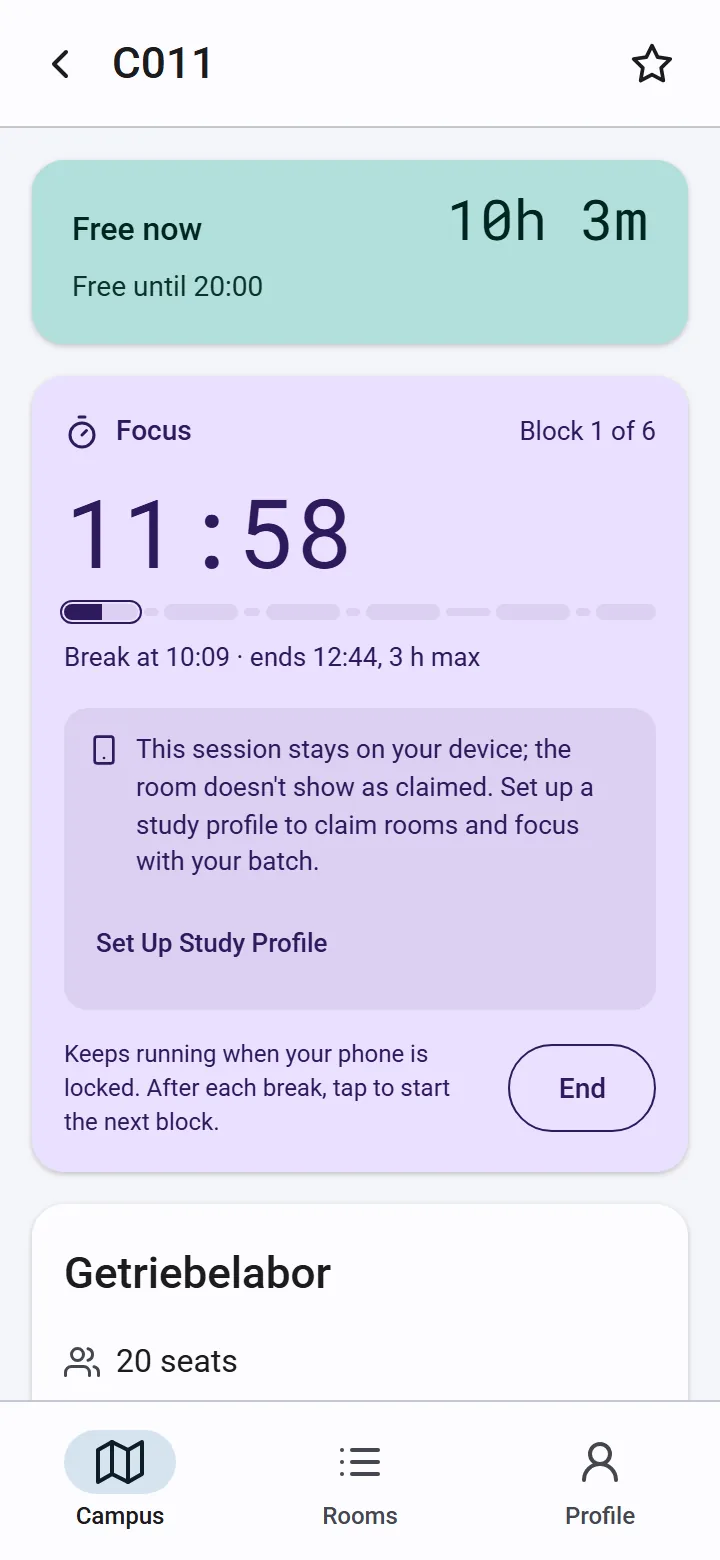
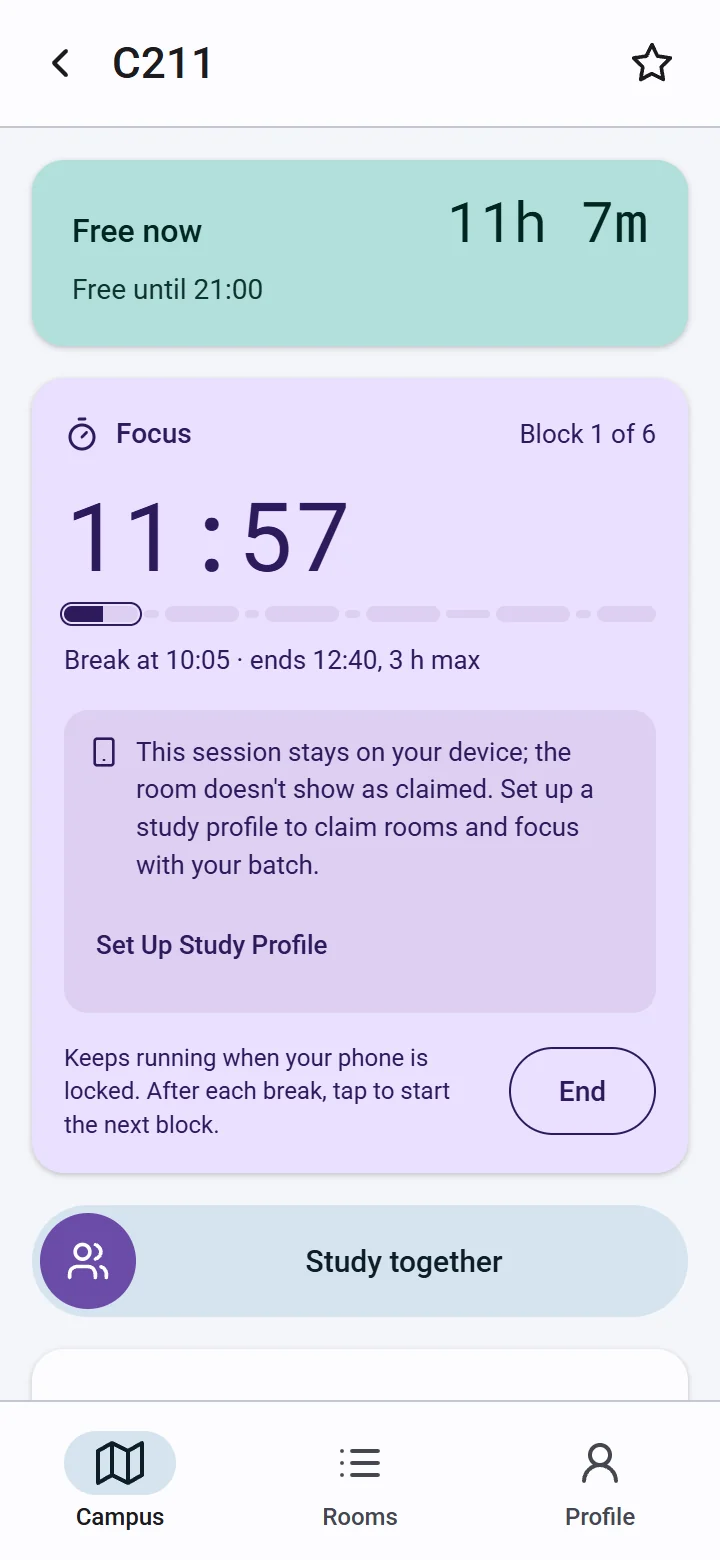
docs(website): replace outdated app screenshots with current ones
- Room list, focus, break and profile phones plus the desktop map,
  light and dark, captured from the current app on a Monday morning
  with live THabella data
- The focus screens now show C211 with Study together below, the
  profile the redesigned history card, and the map the new legend
- Alt texts follow the new numbers and room

diff --git a/website/index.html b/website/index.html
@@ -313,7 +313,7 @@
       </div>
       <div class="steps">
         <div class="step">
-          <div class="phone"><picture><source srcset="assets/screen-rooms-dark.webp" media="(prefers-color-scheme: dark)"><img src="assets/screen-rooms-light.webp" alt="The room list on a phone: 31 rooms free right now, B004 free for 10 hours at the top, then B101, C116 and C011" loading="lazy" width="720" height="1560"></picture></div>
+          <div class="phone"><picture><source srcset="assets/screen-rooms-dark.webp" media="(prefers-color-scheme: dark)"><img src="assets/screen-rooms-light.webp" alt="The room list on a phone: 108 rooms free right now, the longest-free first, each free for 11 hours 20 minutes" loading="lazy" width="720" height="1560"></picture></div>
           <div>
             <span class="num">1</span>
             <h3 data-de="Finde einen Raum">Find a room</h3>
@@ -321,7 +321,7 @@
           </div>
         </div>
         <div class="step">
-          <div class="phone"><picture><source srcset="assets/screen-focus-dark.webp" media="(prefers-color-scheme: dark)"><img src="assets/screen-focus-light.webp" alt="A running Pomodoro session in room C011: block 1 of 6, 11:58 left before the first break" loading="lazy" width="720" height="1560"></picture></div>
+          <div class="phone"><picture><source srcset="assets/screen-focus-dark.webp" media="(prefers-color-scheme: dark)"><img src="assets/screen-focus-light.webp" alt="A running Pomodoro session in room C211: block 1 of 6, 11:57 left before the first break" loading="lazy" width="720" height="1560"></picture></div>
           <div>
             <span class="num">2</span>
             <h3 data-de="Starte den Fokus">Start focus</h3>
@@ -329,7 +329,7 @@
           </div>
         </div>
         <div class="step">
-          <div class="phone"><picture><source srcset="assets/screen-profile-dark.webp" media="(prefers-color-scheme: dark)"><img src="assets/screen-profile-light.webp" alt="The focus graph on the profile: 23 hours this semester and a 5-day streak" loading="lazy" width="720" height="1560"></picture></div>
+          <div class="phone"><picture><source srcset="assets/screen-profile-dark.webp" media="(prefers-color-scheme: dark)"><img src="assets/screen-profile-light.webp" alt="The focus graph on the profile: 25 hours 25 minutes this semester and 18 study days in a row" loading="lazy" width="720" height="1560"></picture></div>
           <div>
             <span class="num">3</span>
             <h3 data-de="Sieh dein Semester wachsen">Watch your semester grow</h3>
@@ -385,7 +385,7 @@
         </div>
         <div class="stack">
           <div class="phone"><picture><source srcset="assets/screen-focus-dark.webp" media="(prefers-color-scheme: dark)"><img src="assets/screen-focus-light.webp" alt="" loading="lazy" width="720" height="1560"></picture></div>
-          <div class="phone"><picture><source srcset="assets/screen-break-dark.webp" media="(prefers-color-scheme: dark)"><img src="assets/screen-break-light.webp" alt="The same session in C011 on a break: 2:58 left, block 2 of 6 next" loading="lazy" width="720" height="1560"></picture></div>
+          <div class="phone"><picture><source srcset="assets/screen-break-dark.webp" media="(prefers-color-scheme: dark)"><img src="assets/screen-break-light.webp" alt="The same session in C211 on a break: 2:58 left, block 2 of 6 next" loading="lazy" width="720" height="1560"></picture></div>
         </div>
       </div>
     </div>
